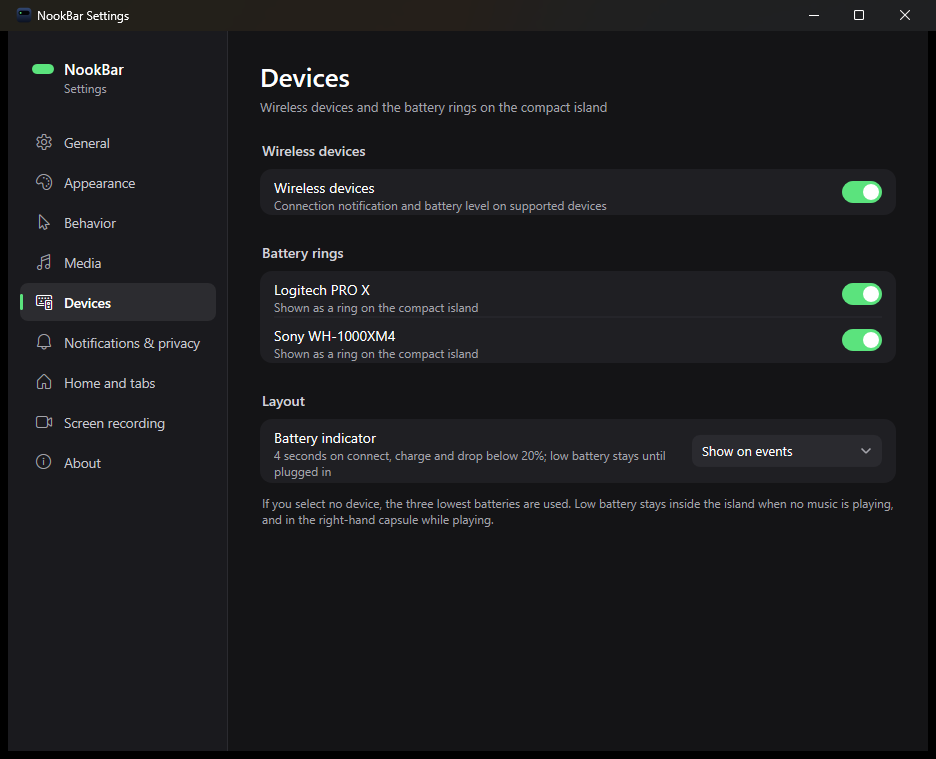
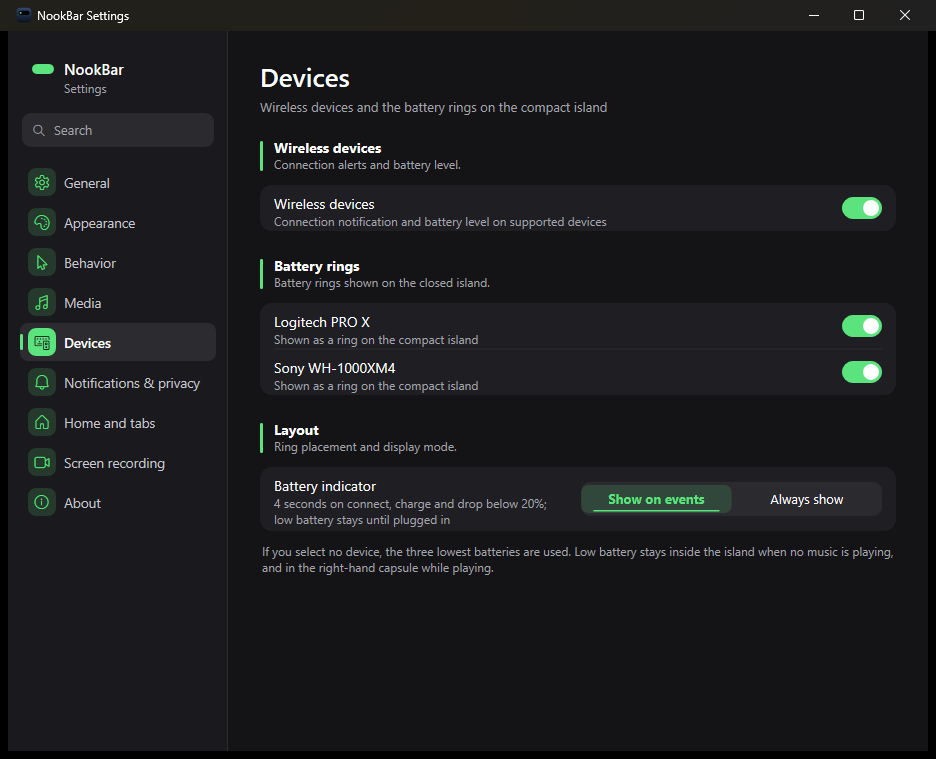
README ve gorseller guncel surume getirildi: kapali muzik gostergesi, soz senkronu, ayarlar, su damlasi, Discord; yeni tanitim animasyonu

diff --git a/README.md b/README.md
@@ -23,7 +23,7 @@
 
 - **Her şey tek yerde:** Müzik, bildirimler, cihaz pilleri, zamanlayıcı, pano, dosya rafı ve sistem bilgisi ekranın kenarında; ayrı pencere ya da uygulama açmak yok.
 - **Küçük başlar, gerektiğinde açılır:** Üstte durur; üzerine gel, açılır; fareyi çek, kapanır.
-- **Müzik kontrolü:** Çalan parçanın kapağı, gerçek ses spektrumuna göre oynayan çubuklar ve zamanlı şarkı sözleri adada.
+- **Müzik kontrolü:** Çalan parçanın kapağı, gerçek ses spektrumuna göre oynayan çubuklar ve sesle hizalanan zamanlı şarkı sözleri adada.
 - **Sistem bilgisi:** CPU, RAM, disk ve ağ grafikleri, ses ve parlaklık kaydırıcıları.
 - **Cihaz pilleri:** Kablosuz fare, klavye, kulaklık ve kolların pili; düşük pilde renkli uyarı. Logitech cihazları G HUB'daki adla görünür.
 - **Pano ve dosya rafı:** Kopyaladıklarını tek tıkla yeniden yapıştır; dosyaları adaya sürükleyip istediğin yere bırak.
@@ -42,8 +42,11 @@ NookBar ekranın üst ortasında durur ve iki biçimde gelir: **Ada** (varsayıl
 | :---: | :---: |
 | <img src="docs/images/stil-ada.png" alt="Ada biçimi" width="360" /> | <img src="docs/images/stil-centik.png" alt="Çentik biçimi" width="360" /> |
 | Ekrandan ayrık yüzen kapsül | Ekran kenarına bitişik çentik |
+| <img src="docs/images/muzik-ada.png" alt="Müzik çalarken ada" width="360" /> | <img src="docs/images/muzik-centik.png" alt="Müzik çalarken çentik" width="360" /> |
+| Müzik çalarken: kapak ve söz | Müzik çalarken: kapak ve söz |
 
-- Kapalıyken çalan parçanın kapağı, ses çubukları ya da zamanlı söz satırı (sözler 2, 3 veya 4 kelimelik öbeklerle) görünür. Müzik çalmıyorsa saat kapsülün ortasında durur.
+- Müzik çalarken ince bir gösterge olur: solda albüm kapağı (ya da çalan uygulamanın simgesi), yanında şarkı sözü. Ada, çalan söz öbeğine göre genişleyip daralır. Sözler arasındaki ritim/enstrümantal boşlukta ve sözü olmayan parçalarda sesle oynayan noktalar görünür. Müzik çalmıyorsa saat kapsülün ortasında durur.
+- `Ctrl + Alt + D` ile gizlerken ada su damlası gibi kenara çekilir, gösterirken kenarda bir damla oluşup adaya açılır.
 - Solda zamanlayıcı halkası, sağda okunmamış bildirim sayacı, indirme göstergesi ve pil kapsülü çıkar.
 - 8 konum: üst, alt, köşeler ve sol/sağ kenar (kenarlarda dikey kapsül); çoklu ekran ve DPI desteği.
 - Hızlı ses ayarı: kapalı adanın üzerinde fare tekerleği.
@@ -56,8 +59,19 @@ NookBar ekranın üst ortasında durur ve iki biçimde gelir: **Ada** (varsayıl
 
 - Çalan parça, kapak, ilerleme çubuğu, oynat/duraklat/atla kontrolleri.
 - **Gerçek ses spektrumu:** çubuklar sistem sesinden 16 frekans bandıyla çalışır (bas solda, tiz sağda); ses yakalanamazsa animasyona döner.
-- Zamanlı şarkı sözleri: küçük adada, müzik kartındaki söz çarkında ve Sözler sekmesinde; satıra tıklayınca şarkı oraya atlar.
+- Zamanlı şarkı sözleri: küçük adada, müzik kartındaki söz çarkında ve Sözler sekmesinde; satıra tıklayınca şarkı oraya atlar. Çalan satır şarkıyla birlikte soldan sağa dolar.
+- **Söz senkronu:** sözler hece sayısına göre dengeli öbeklere bölünür ve vokalin sesteki girişlerine göre satır içinde hizalanır; öğrenilen düzeltmeler şarkı başına bilgisayarında saklanır, aynı şarkı tekrar çalınınca ilk saniyeden uygulanır. Ayarlar → Medya'da öbek uzunluğu (2/3/4 kelime) ve söz kaydırma.
+- Müzik kartı kapak renginden vurgu alır; geniş kartta kapak ve kontroller solda, söz çarkı sağda. Uzun başlıklar kayar, bir saati aşan içerikte süre saatli gösterilir.
+
+<p align="center">
+  <img src="docs/images/ayarlar-medya.png" alt="Ayarlar: Medya" width="760" />
+</p>
 - Tarayıcıda sanatçısı olmayan yayınlar (ör. canlı yayın siteleri) müzik sayılmaz; ada normal saat modunda kalır. YouTube gibi sanatçı/kanal adı veren kaynaklar ve bilinen müzik uygulamaları gösterilmeye devam eder.
+
+### Discord (isteğe bağlı)
+
+- Discord masaüstü uygulamasına yerelden bağlanır: çağrıdayken mikrofon/kulaklık düğmeleri, konuşan kişi, ekran paylaşımı ve kamera kısayolları. Mesaj içeriği okunmaz.
+- Varsayılan olarak kapalıdır. Discord yerel bağlantıya yalnızca uygulama sahibinin hesabında izin verdiği için kendi Discord uygulamanı oluşturup Client ID'sini Ayarlar → Medya → Discord'a yazman gerekir (adımlar ayar ekranında).
 
 ### Sistem
 
@@ -124,12 +138,14 @@ NookBar ekranın üst ortasında durur ve iki biçimde gelir: **Ada** (varsayıl
 </p>
 
 - 14 yerleşik tema, özel arka plan/yazı/vurgu renkleri.
-- **Liquid Glass** cam efekti (arkadaki ekranı bulandırıp kırar), sıvı geçiş efekti, kapak renginden ışık.
+- **Liquid Glass** cam efekti (arkadaki ekranı bulandırıp kırar), sıvı geçiş efekti, kapak renginden vurgu.
+- Windows'ta "Saydamlık efektleri" kapalıysa ya da Yüksek Karşıtlık açıksa gövde opak çizilir; "Animasyon efektleri" kapalıysa geçişler en hızlı değere iner.
 - Ada boyutu, köşe yuvarlaklığı ve animasyon süresi ayarlanabilir.
 
 ### Daha fazla ayar
 
-- **Kısayollar:** `Ctrl + Alt + D` adayı gösterir/gizler; `Ctrl + Alt + Boşluk` paneli açar/kapatır; açıkken ←/→ sekme değiştirir, `Esc` kapatır. Ayarlar penceresi Tab/ok/Boşluk ile klavyeyle de kullanılır.
+- **Ayarlar penceresi:** kategorili sol menü, açıklamalı bölümler, az seçenekli ayarlar için segmentli seçim, küçük ekran maketi üzerinde konum seçici ve tüm ayarlar arasında arama (`Ctrl + F`).
+- **Kısayollar:** `Ctrl + Alt + D` adayı gösterir/gizler (su damlası animasyonu, Ayarlar → Görünüm'den kapatılabilir); `Ctrl + Alt + Boşluk` paneli açar/kapatır; açıkken ←/→ sekme değiştirir, `Esc` kapatır. Ayarlar penceresi Tab/ok/Boşluk ile klavyeyle de kullanılır.
 - **Açılma biçimi:** fareyle üzerine gelince ya da tıklayınca; imleci takip eden ekranda gösterme; yalnızca kenara gidince beliren mod.
 - **Gizleme:** tam ekranda ve büyütülmüş pencerede gizle; çift tıkla ince çizgiye indir.
 - **Ekran paylaşımı:** ada Discord/OBS/Teams'te görünür; istersen paylaşım ve kayıtlarda gizle.
@@ -176,7 +192,9 @@ Windows Ayarları → Uygulamalar → NookBar → Kaldır. Kaldırıcıda "Ayarl
 ## Gizlilik
 
 - Pano geçmişi ve bildirimler yalnızca bellekte tutulur, uygulama kapanınca silinir. Yayın/kayıt sırasında pano kendiliğinden gizlenir.
-- Ağ yalnızca açtığın özellikler için kullanılır: şarkı sözleri (LRCLIB), hava durumu (Open-Meteo). Telemetri yok.
+- Ağ yalnızca açtığın özellikler için kullanılır: şarkı sözleri (LRCLIB'e parça adı, sanatçı ve süre), hava durumu (Open-Meteo'ya yazdığın şehir), Discord (açarsan, Discord'un oturum sunucusu). Telemetri yok.
+- Söz senkronu için ses yalnızca bellekte ölçülür, kaydedilmez. Öğrenilen söz düzeltmeleri (şarkı adı ve sayılar) yalnızca bilgisayarında, `%APPDATA%\DinamikAdaNative` içinde tutulur.
+- Discord oturum bilgisi Windows'un kullanıcıya özel şifrelemesiyle (DPAPI) saklanır; NookBar yalnızca gerçekten Discord olan yerel bağlantıya bağlanır.
 - Kablosuz cihaz pilleri bilgisayarın içinde okunur; G HUB bağlantısında karşı tarafın gerçekten G HUB olduğu doğrulanır.
 
 ## Sorun giderme

diff --git a/README.en.md b/README.en.md
@@ -42,8 +42,11 @@ NookBar sits at the top center of the screen and comes in two styles: **Island**
 | :---: | :---: |
 | <img src="docs/images/en/stil-ada.png" alt="Island style" width="360" /> | <img src="docs/images/en/stil-centik.png" alt="Notch style" width="360" /> |
 | A floating capsule detached from the screen | A notch attached to the screen edge |
+| <img src="docs/images/en/muzik-ada.png" alt="Island while music plays" width="360" /> | <img src="docs/images/en/muzik-centik.png" alt="Notch while music plays" width="360" /> |
+| While music plays: cover and lyric | While music plays: cover and lyric |
 
-- While closed it shows the playing track's cover, audio bars or a synced lyric line (lyrics in phrases of 2, 3 or 4 words). When no music plays, the clock sits in the center of the capsule.
+- While music plays it becomes a slim indicator: the album cover (or the playing app's icon) on the left and the lyric next to it. The island widens and narrows with the current lyric phrase. During rhythm/instrumental gaps between lyrics, and for tracks without lyrics, dots that react to the audio appear. When no music plays, the clock sits in the center of the capsule.
+- Hiding with `Ctrl + Alt + D` pulls the island into the edge like a water drop; showing it forms a drop at the edge that opens into the island.
 - A timer ring appears on the left; an unread notification counter, download indicator and battery capsule on the right.
 - 8 positions: top, bottom, corners and left/right edges (vertical capsule on the sides); multi-monitor and DPI aware.
 - Quick volume: scroll the mouse wheel over the closed island.
@@ -56,8 +59,19 @@ NookBar sits at the top center of the screen and comes in two styles: **Island**
 
 - Playing track, cover art, progress bar, play/pause/skip controls.
 - **Real audio spectrum:** the bars follow system audio in 16 frequency bands (bass on the left, treble on the right); if audio can't be captured they fall back to an animation.
-- Synced lyrics: on the compact island, in the lyrics wheel on the music card and in the Lyrics tab; click a line and the song jumps there.
+- Synced lyrics: on the compact island, in the lyrics wheel on the music card and in the Lyrics tab; click a line and the song jumps there. The current line fills from left to right with the song.
+- **Lyric sync:** lyrics are split into balanced phrases by syllable count and aligned within each line to the vocal onsets in the audio; learned corrections are stored per song on your computer and applied from the first second the next time the song plays. Phrase length (2/3/4 words) and a lyric offset are in Settings → Media.
+- The music card takes an accent from the cover color; on a wide card the cover and controls sit on the left and the lyrics wheel on the right. Long titles scroll, and content longer than an hour shows hours in the time.
+
+<p align="center">
+  <img src="docs/images/en/ayarlar-medya.png" alt="Settings: Media" width="760" />
+</p>
 - Browser sources without an artist (e.g. live-stream sites) are not treated as music; the island stays in normal clock mode. Sources that give an artist/channel name, like YouTube, and known music apps are still shown.
+
+### Discord (optional)
+
+- Connects locally to the Discord desktop app: microphone/headphone buttons during a call, who is speaking, screen share and camera shortcuts. Message content is not read.
+- Off by default. Discord only allows the local connection on the app owner's account, so you need to create your own Discord app and enter its Client ID in Settings → Media → Discord (steps are on the settings screen).
 
 ### System
 
@@ -124,12 +138,14 @@ NookBar sits at the top center of the screen and comes in two styles: **Island**
 </p>
 
 - 14 built-in themes, custom background/text/accent colors.
-- **Liquid Glass** (blurs and refracts the screen behind it), a liquid tab transition and a glow from the cover color.
+- **Liquid Glass** (blurs and refracts the screen behind it), a liquid tab transition and an accent from the cover color.
+- If Windows "Transparency effects" are off or High Contrast is on, the body is drawn opaque; if "Animation effects" are off, transitions use the fastest setting.
 - Island size, corner roundness and animation duration are adjustable.
 
 ### More settings
 
-- **Shortcuts:** `Ctrl + Alt + D` shows/hides the island; `Ctrl + Alt + Space` opens/closes the panel; while open, ←/→ switch tabs and `Esc` closes. The settings window is fully usable with Tab/arrows/Space.
+- **Settings window:** a categorized sidebar, described sections, segmented choices for settings with few options, a position picker on a small screen mock-up and search across all settings (`Ctrl + F`).
+- **Shortcuts:** `Ctrl + Alt + D` shows/hides the island (water drop animation, can be turned off in Settings → Appearance); `Ctrl + Alt + Space` opens/closes the panel; while open, ←/→ switch tabs and `Esc` closes. The settings window is fully usable with Tab/arrows/Space.
 - **Open mode:** on hover or on click; follow the screen the cursor is on; a reveal-on-edge mode.
 - **Hiding:** hide in fullscreen and when a window is maximized; double-click to drop to a thin line.
 - **Screen sharing:** the island is visible in Discord/OBS/Teams; hide it in shares and recordings if you prefer.
@@ -176,7 +192,9 @@ Windows Settings → Apps → NookBar → Uninstall. If you tick "Also delete my
 ## Privacy
 
 - Clipboard history and notifications are kept in memory only and deleted when the app exits. The clipboard hides itself while you broadcast or record.
-- The network is used only for features you turn on: lyrics (LRCLIB), weather (Open-Meteo). No telemetry.
+- The network is used only for features you turn on: lyrics (track name, artist and duration to LRCLIB), weather (the city you type to Open-Meteo), Discord (if enabled, Discord's sign-in server). No telemetry.
+- For lyric sync, audio is measured in memory only and never recorded. Learned lyric corrections (song name and numbers) stay on your computer in `%APPDATA%\DinamikAdaNative`.
+- The Discord session is stored with Windows' per-user encryption (DPAPI); NookBar only connects to a local endpoint that really is Discord.
 - Wireless device batteries are read on your computer; for G HUB the other end is verified to really be G HUB.
 
 ## Troubleshooting
